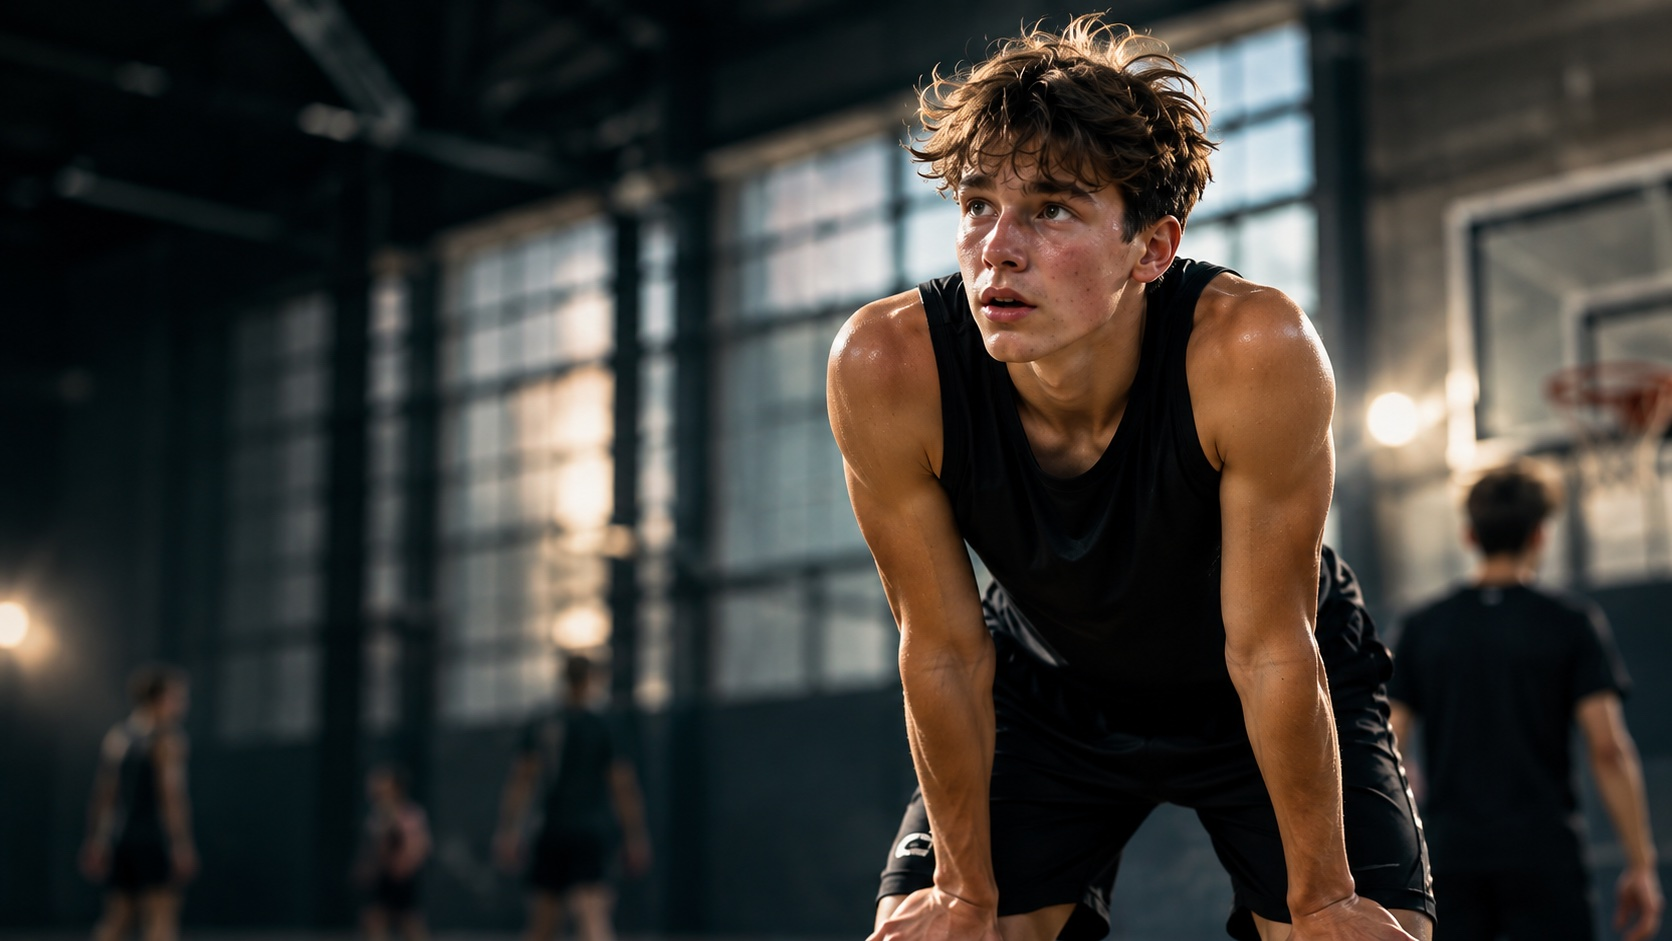
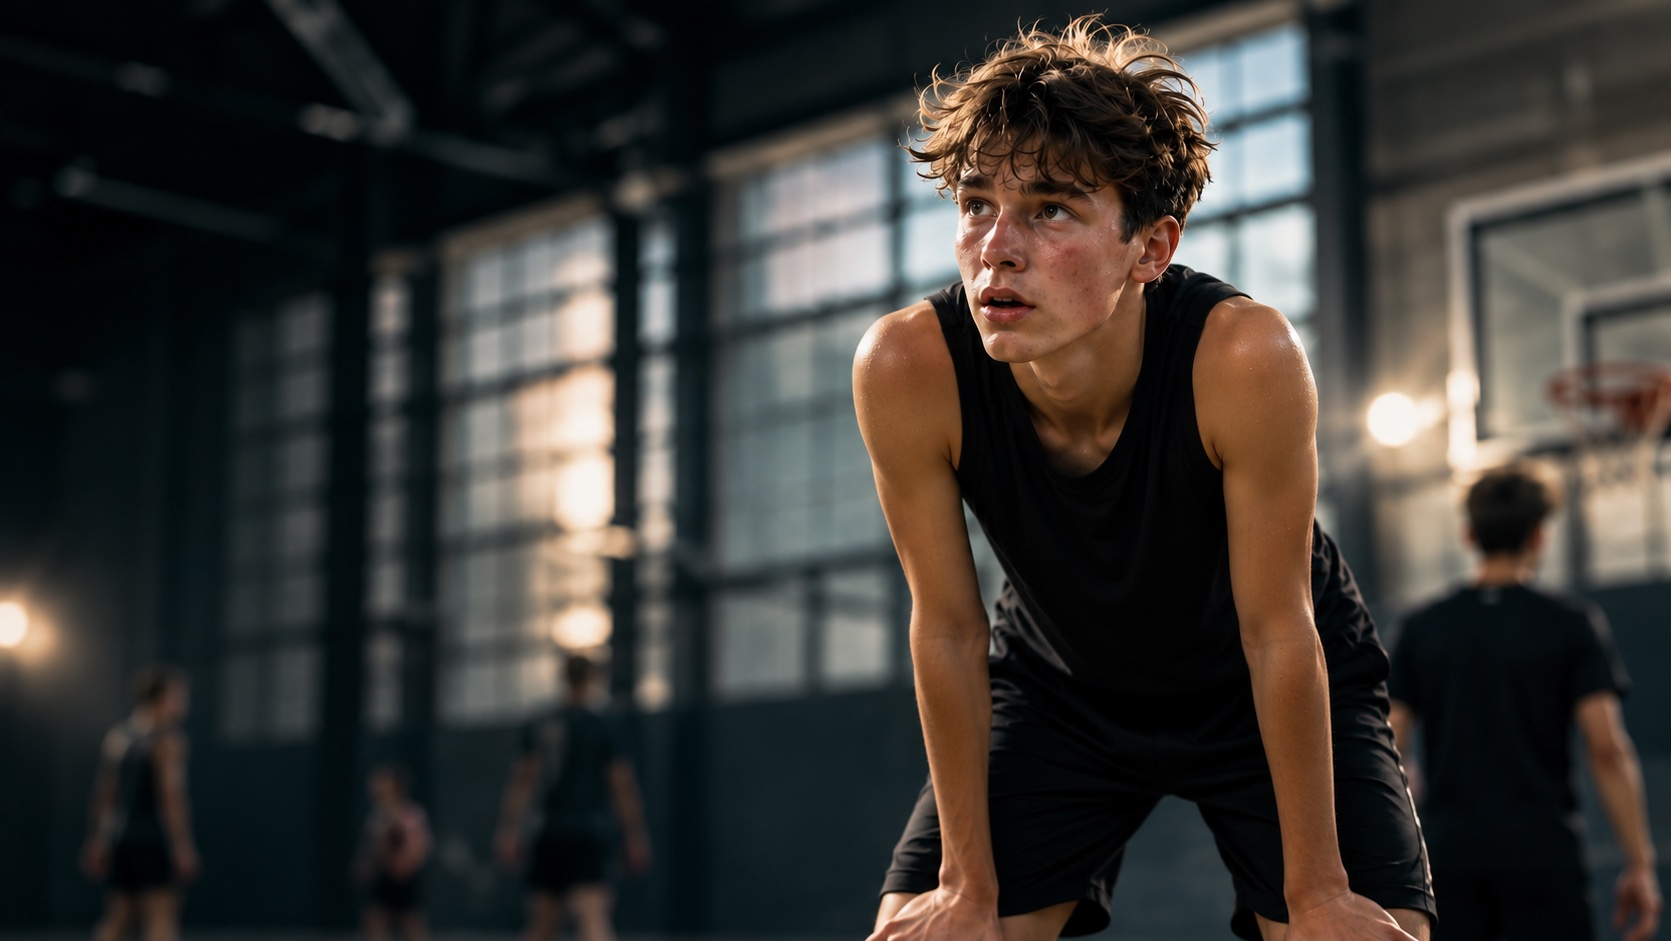
Startseiten-Hero auf Desktop tiefer gesetzt, neues Bild Herausforderung

diff --git a/css/prospect.css b/css/prospect.css
@@ -1692,3 +1692,8 @@ html.reveal .fill:has(> img:not(.is-loaded)) .system__pin { opacity: 0; transiti
 .confirm .h2 { margin-bottom: 18px; color: var(--ink); }
 .confirm__text { margin-bottom: 28px; font-size: 18px; line-height: 1.5; color: var(--text); }
 .confirm__loading { font-size: 18px; color: var(--muted); }
+
+/* Startseiten-Hero (Desktop): Inhalt genauso tief wie auf den Unterseiten */
+@media (min-width: 761px) {
+  .hero__inner { padding-top: clamp(150px, 13vw, 230px); }
+}
